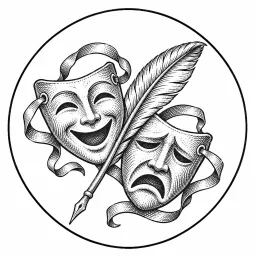
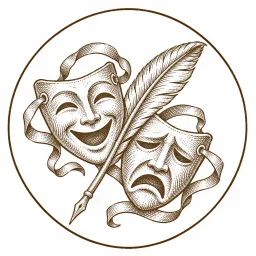
/vision: the header engraving and the eight emblems are inked in Ledger's brown instead of black, so they read as printed on the paper. In the dark look they turn a warm parchment tone rather than blue-gray. The check and meters stay blue

diff --git a/app/vision/vision.css b/app/vision/vision.css
@@ -32,7 +32,7 @@
   pointer-events: none;
 }
 html[data-update-theme="dark"] .vn-head-art {
-  filter: invert(1) sepia(0.35);
+  filter: invert(1) hue-rotate(180deg);
   mix-blend-mode: screen;
   opacity: 0.6;
 }
@@ -294,7 +294,7 @@ html[data-update-theme="dark"] .vn-head-art {
   mix-blend-mode: multiply;
 }
 html[data-update-theme="dark"] .vn-emblem {
-  filter: invert(1) sepia(0.35);
+  filter: invert(1) hue-rotate(180deg);
   mix-blend-mode: screen;
   opacity: 0.8;
 }
